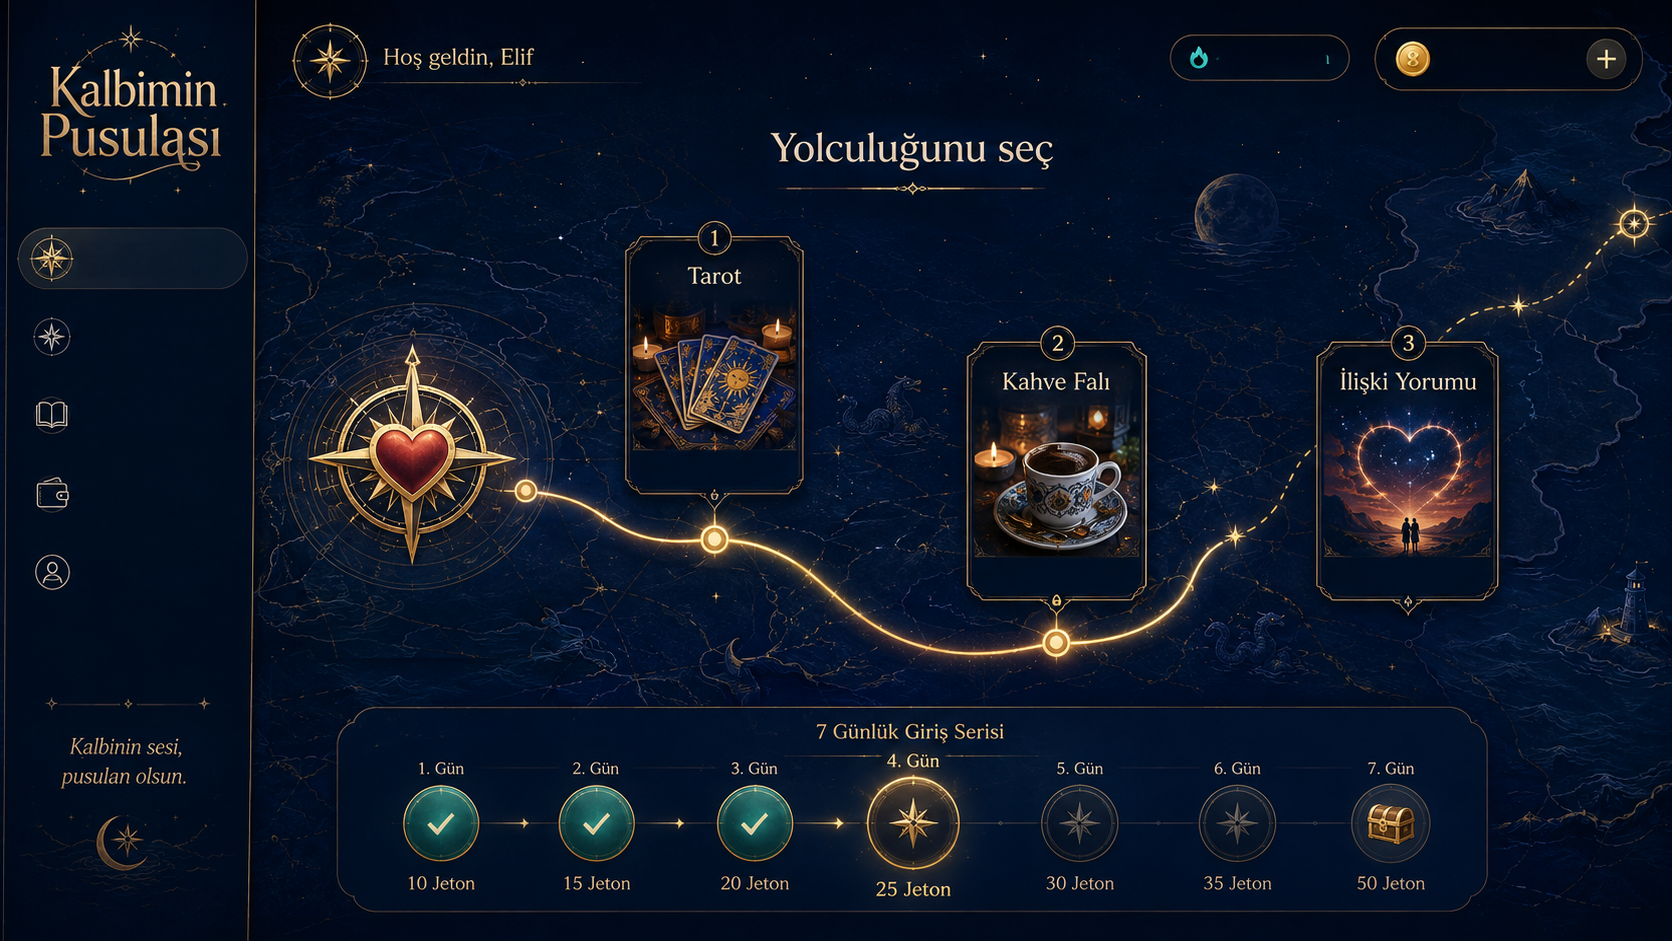
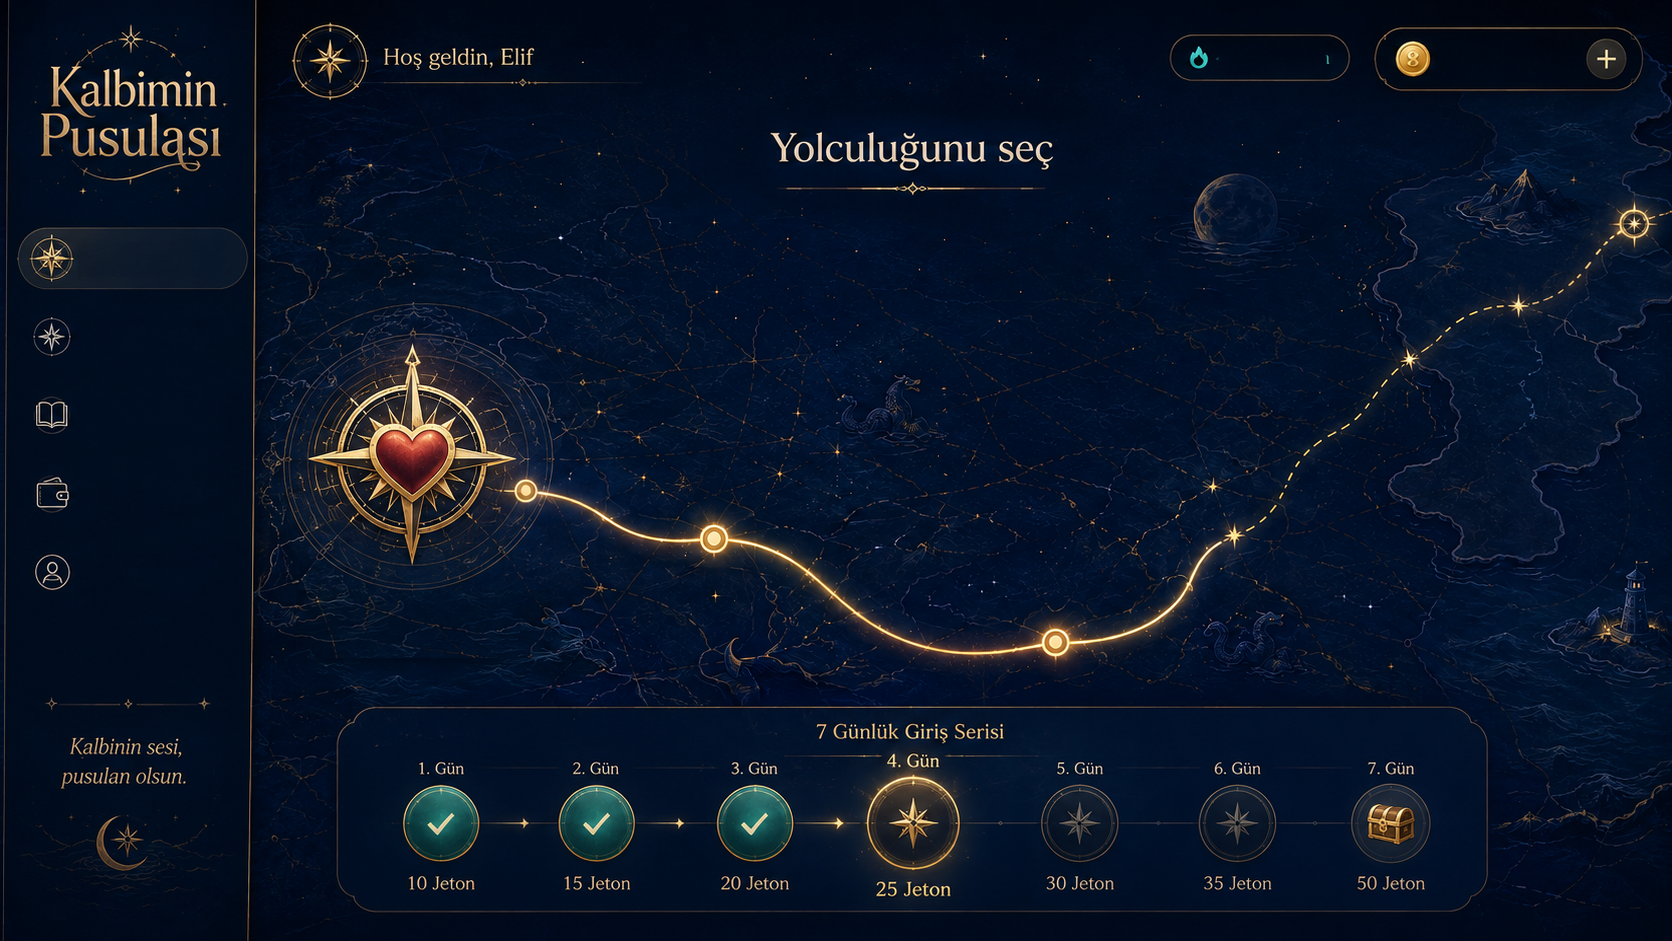
Add files via upload

diff --git a/app/globals.css b/app/globals.css
@@ -112,46 +112,123 @@ button { font: inherit; }
   color: #f1dfbd;
 }
 
-.third-card-title {
+.journey-map {
   position: absolute;
-  z-index: 3;
-  left: 79.73%;
-  top: 38.28%;
-  width: 9.10%;
-  height: 4.66%;
+  inset: 0;
+  z-index: 6;
+  pointer-events: none;
+}
+
+.journey-card {
+  position: absolute;
+  width: 8.40%;
+  height: 29.00%;
+  padding: 0;
+  overflow: visible;
+  border: 0;
+  background: transparent;
+  color: #f1dfbd;
+  cursor: pointer;
+  pointer-events: auto;
+  transition: transform .16s ease, border-color .16s ease, box-shadow .16s ease, filter .16s ease;
+}
+.journey-card::before {
+  content: "";
+  position: absolute;
+  z-index: 4;
+  inset: .32cqw;
+  border: 1px solid rgba(211,170,96,.27);
+  clip-path: polygon(7% 0, 93% 0, 100% 5%, 100% 95%, 93% 100%, 7% 100%, 0 95%, 0 5%);
+  pointer-events: none;
+}
+.journey-card::after {
+  content: "◆";
+  position: absolute;
+  left: 50%;
+  bottom: -.72cqw;
+  z-index: 5;
+  transform: translateX(-50%);
+  color: #d3aa60;
+  font-size: .62cqw;
+  line-height: 1;
+  text-shadow: 0 0 .45cqw rgba(238,197,111,.55);
+}
+.journey-card-1 { left: 35.80%; top: 26.20%; }
+.journey-card-2 { left: 45.20%; top: 34.00%; }
+.journey-card-3 { left: 54.60%; top: 28.60%; }
+.journey-card-4 { left: 64.00%; top: 34.80%; }
+.journey-card-5 { left: 73.40%; top: 27.20%; }
+.journey-card-6 { left: 82.80%; top: 34.00%; }
+
+.journey-surface {
+  position: absolute;
+  inset: 0;
+  overflow: hidden;
+  border: 1px solid rgba(211,170,96,.92);
+  background: #061426;
+  box-shadow: 0 .65cqw 1.7cqw rgba(0,0,0,.34), inset 0 0 0 1px rgba(238,203,128,.12);
+  clip-path: polygon(7% 0, 93% 0, 100% 5%, 100% 95%, 93% 100%, 7% 100%, 0 95%, 0 5%);
+}
+
+.journey-number {
+  position: absolute;
+  left: 50%;
+  top: -1.18cqw;
+  z-index: 7;
+  width: 2.15cqw;
+  height: 2.15cqw;
   display: grid;
   place-items: center;
+  transform: translateX(-50%);
+  border: 1px solid #d3aa60;
+  border-radius: 50%;
   background: #061426;
-  color: #f1dfbd;
-  font-size: 1.48cqw;
-  font-weight: 500;
+  box-shadow: 0 0 .55cqw rgba(220,176,91,.22);
+  color: #f0d49b;
+  font-size: .92cqw;
+  line-height: 1;
+}
+.journey-title {
+  position: relative;
+  z-index: 3;
+  height: 17%;
+  display: flex;
+  align-items: center;
+  justify-content: center;
+  padding: .30cqw .38cqw 0;
+  border-bottom: 1px solid rgba(211,170,96,.56);
+  background: rgba(4,15,31,.96);
+  font-size: .96cqw;
+  font-weight: 600;
   line-height: 1;
   white-space: nowrap;
 }
-
-.third-card-image {
-  position: absolute;
-  z-index: 3;
-  left: 79.25%;
-  top: 42.95%;
-  width: 9.63%;
-  height: 16.05%;
-  background: linear-gradient(rgba(2,9,19,.06), rgba(2,9,19,.2)), url("/images/dream-garden.webp") center / cover no-repeat;
-  box-shadow: inset 0 0 16px rgba(1,7,16,.45);
+.journey-image {
+  position: relative;
+  z-index: 2;
+  width: 100%;
+  height: 83%;
+  display: block;
+  object-fit: cover;
+  object-position: center;
+  filter: saturate(.92) contrast(1.03);
 }
-
-.hotspot {
-  position: absolute;
-  z-index: 6;
-  padding: 0;
-  border: 0;
-  background: transparent;
-  cursor: pointer;
+.journey-card:hover,
+.journey-card:focus-visible {
+  z-index: 10;
+  transform: translateY(-.32cqw);
+  outline: none;
+  filter: brightness(1.04);
 }
-.hotspot:focus-visible { outline: 3px solid #f2cf7b; outline-offset: 3px; border-radius: 8px; }
-.tarot-hotspot { left: 37.44%; top: 23.10%; width: 10.65%; height: 29.48%; }
-.coffee-hotspot { left: 57.89%; top: 34.57%; width: 10.71%; height: 29.27%; }
-.dream-hotspot { left: 78.77%; top: 34.57%; width: 10.65%; height: 29.27%; }
+.journey-card:hover .journey-surface,
+.journey-card:focus-visible .journey-surface {
+  border-color: #efd28b;
+  box-shadow: 0 .85cqw 2cqw rgba(0,0,0,.43), 0 0 1.05cqw rgba(215,169,80,.25);
+}
+.journey-card:active {
+  transform: translateY(-.08cqw) scale(.975);
+  filter: brightness(.94);
+}
 
 .exact-toast {
   position: absolute;

diff --git a/app/page.tsx b/app/page.tsx
@@ -2,6 +2,15 @@
 
 import { useState } from "react";
 
+const journeys = [
+  { title: "Tarot", image: "/images/tarot-cards.webp" },
+  { title: "Katina", image: "/images/katina-cards.webp" },
+  { title: "Kahve Falı", image: "/images/coffee-cup.webp" },
+  { title: "Rüya Tabirleri", image: "/images/dream-garden.webp" },
+  { title: "Doğum Haritası", image: "/images/birth-chart.webp" },
+  { title: "Ruh Eşi", image: "/images/soulmate.webp" },
+];
+
 export default function Home() {
   const [message, setMessage] = useState("");
 
@@ -34,12 +43,23 @@ export default function Home() {
         <div className="small-status-label streak-label" aria-hidden="true">4 günlük seri</div>
         <div className="small-status-label balance-label" aria-hidden="true">125 Jeton</div>
 
-        <div className="third-card-title" aria-hidden="true">Rüya Tabirleri</div>
-        <div className="third-card-image" aria-hidden="true" />
-
-        <button className="hotspot tarot-hotspot" type="button" aria-label="Tarot" onClick={() => announce("Tarot seçildi")} />
-        <button className="hotspot coffee-hotspot" type="button" aria-label="Kahve Falı" onClick={() => announce("Kahve Falı seçildi")} />
-        <button className="hotspot dream-hotspot" type="button" aria-label="Rüya Tabirleri" onClick={() => announce("Rüya Tabirleri seçildi")} />
+        <div className="journey-map" aria-label="Yolculuk seçenekleri">
+          {journeys.map((journey, index) => (
+            <button
+              className={`journey-card journey-card-${index + 1}`}
+              type="button"
+              key={journey.title}
+              aria-label={journey.title}
+              onClick={() => announce(`${journey.title} seçildi`)}
+            >
+              <span className="journey-number" aria-hidden="true">{index + 1}</span>
+              <span className="journey-surface" aria-hidden="true">
+                <span className="journey-title">{journey.title}</span>
+                <img className="journey-image" src={journey.image} alt="" />
+              </span>
+            </button>
+          ))}
+        </div>
 
         {message && <div className="exact-toast" role="status">✦ {message}</div>}
       </section>

diff --git a/YUKLEME_TALIMATI.md b/YUKLEME_TALIMATI.md
@@ -1,26 +1,38 @@
-# Aşama 4 — Kontrollü Font Küçültme ve Tam Ekran
+# Aşama 5 — Altı Yolculuk Kartı
 
-Bu pakette yalnızca üç güncel dosya bulunmaktadır:
+Bu pakette dört güncel dosya bulunmaktadır:
 
 - `app/page.tsx`
 - `app/globals.css`
 - `public/images/approved-home-reference.png`
+- `public/images/katina-cards.webp`
 
 ## GitHub'a yükleme
 
 1. Paketteki `app/page.tsx` dosyasını GitHub deponuzdaki `app/page.tsx` dosyasının üzerine yükleyin.
 2. Paketteki `app/globals.css` dosyasını GitHub deponuzdaki `app/globals.css` dosyasının üzerine yükleyin.
-3. Paketteki `public/images/approved-home-reference.png` dosyasını GitHub deponuzdaki `public/images/approved-home-reference.png` dosyasının üzerine yükleyin.
-4. Commit açıklamasına `Aşama 4 - Fontları küçült ve tam ekran yap` yazın.
-5. `Commit changes` düğmesine basın.
-6. Vercel dağıtımı tamamlandıktan sonra sayfayı `Ctrl + F5` ile yenileyin.
+3. Paketteki `public/images/approved-home-reference.png` dosyasını GitHub deponuzdaki aynı dosyanın üzerine yükleyin.
+4. Paketteki yeni `public/images/katina-cards.webp` dosyasını GitHub deponuzdaki `public/images` klasörüne yükleyin.
+5. Commit açıklamasına `Aşama 5 - Altı yolculuk kartını ekle` yazın.
+6. `Commit changes` düğmesine basın.
+7. Vercel dağıtımı tamamlandıktan sonra sayfayı `Ctrl + F5` ile yenileyin.
+
+## Kart sırası
+
+1. Tarot
+2. Katina
+3. Kahve Falı
+4. Rüya Tabirleri
+5. Doğum Haritası
+6. Ruh Eşi
 
 ## Bu aşamada değişenler
 
-- Sol menü yazıları kontrollü biçimde küçültüldü.
-- `4 günlük seri` ve `125 Jeton` yazıları küçültüldü.
-- Sayfa, ekran oranına göre kenarlarda boşluk bırakmadan tam ekran kaplama davranışına geçirildi.
+- Üç eski kart ana arka plandan kaldırıldı; merkezi harita ve parlak rota tamamlandı.
+- Altı kart aynı lacivert–antik altın çerçeve diliyle kod katmanı olarak eklendi.
+- Kart numaraları kırpılmayacak şekilde bağımsız rozet katmanına yerleştirildi.
+- Kartların altında jeton veya fiyat bulunmaz.
+- Her karta tıklama, hover ve basma geri bildirimi eklendi.
+- Katina için Tarot'tan farklı, metinsiz özgün bir görsel eklendi.
 
-Kart başlıkları, `Yolculuğunu seç`, giriş serisi, kalp animasyonu, parlak rota ve diğer tasarım alanları değiştirilmemiştir.
-
-Not: Tam ekran kaplama sırasında ekranın en-boy oranı referans tasarımdan çok farklıysa görüntünün üst-alt veya sağ-sol uçlarından küçük bir bölüm kırpılabilir. Görüntü oranı bozulmaz.
+Menü, üst bilgiler, kalp animasyonu, tam ekran davranışı ve giriş serisi korunmuştur.
